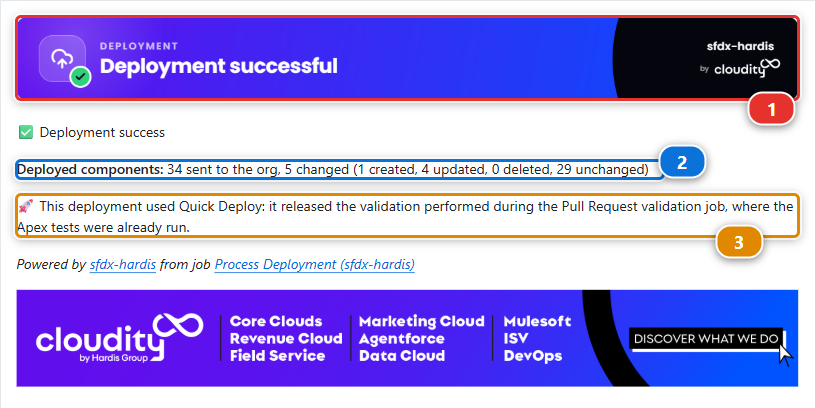
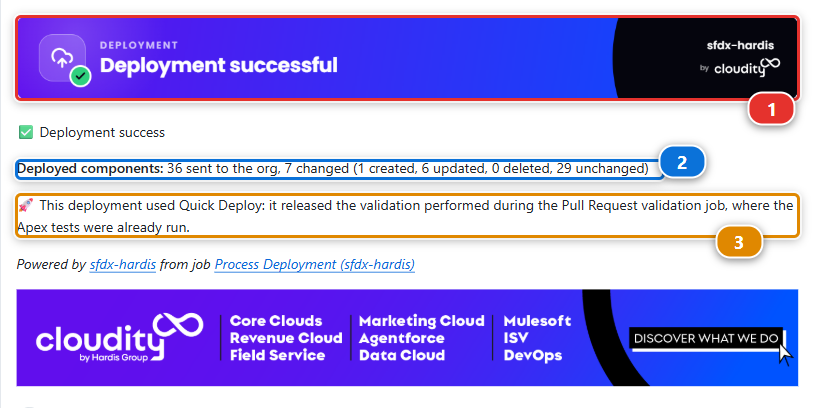
fix(training): what the 2026-09-29 walk on the beta found (#59)
* fix(lab-1.6): the comment pictures and counts of today's run, and the pipeline picture says it shows a later state

* fix(lab-2.1): What you should see names the field the backpromote brings

* fix(lab-2.4): the Data Workbench picture already shows the workspace the step creates

* fix(lab-2.7): the Merge Changes picture shows one of the two conflicting files

* fix(lab-2.7): no claim on the order of the files

* fix(lab-3.2): the fixed Pull Request moves two fields, not one

* fix(lab-3.5): the promotion notes count the configuration and promotion Pull Requests

* fix(badges): a badge claim republishes the reset branches too

* chore(training): changelog of the 2026-09-29 walk, and the French stamps of the labs it edited

* fix(training): what the review of the 2026-09-29 branch found

Lab 3.5 counts the three Pull Requests that carry no story and says a reset
gives far fewer, Lab 3.2 keeps the read only in its summary, and claim.yml
lists its sixth rule and republishes the reset branches only after a push.

* chore(training): restamp the two French labs of the review

diff --git a/labs/fr/level-1-contributor-basics/1-6-pull-request-deployment-check-and-merge.md b/labs/fr/level-1-contributor-basics/1-6-pull-request-deployment-check-and-merge.md
@@ -5,7 +5,7 @@ description: "Ouvrez une Pull Request GitHub, lisez le contrôle de déploiement
 level: 1
 lab: 6
 lang: fr
-source_rev: "9c0626c6cc38da209d2afd619561a0e94eaff865"
+source_rev: "71114c5446375824368bab616dc0f1d1ee701d51"
 screenshots:
   - annotated/web/github-pr-checks
   - annotated/web/github-pr-comment
@@ -145,8 +145,8 @@ Quand le contrôle de déploiement se termine, sfdx-hardis écrit un commentaire
 
 1. **La bannière** **(1)** dit si le déploiement simulé a réussi
 2. **Ce qui changerait** **(2)**. Pas une liste de vos fichiers : sfdx-hardis envoie le package
-   entier, `manifest/package.xml`, et Salesforce répond quelle part en diffère : `34 sent to the org,
-   5 would change (1 created, 4 updated, 0 deleted, 29 unchanged)`. Le composant créé est votre
+   entier, `manifest/package.xml`, et Salesforce répond quelle part en diffère : `36 sent to the org,
+   7 would change (1 created, 6 updated, 0 deleted, 29 unchanged)`. Le composant créé est votre
    champ, et les composants mis à jour incluent la présentation de page et les deux permission sets
    que vous avez modifiés
 3. **La couverture Apex** **(3)**, face à l'objectif que fixe ce projet
@@ -239,6 +239,10 @@ répond à "est-ce que mon travail est dans l'org" sans quitter l'éditeur.
 
 ![Le panneau DevOps Pipeline, avec le statut du déploiement sur la flèche vers l'org](../../_assets/annotated/vscode/devops-pipeline--deployment-status.png)
 
+La capture a été prise plus loin dans le cours, avec les branches des collègues à gauche
+d'`integration`. La vôtre ne montre que `integration` et `uat` : c'est la pastille **(1)** sur la
+flèche vers l'org qu'il faut regarder.
+
 La pastille est aussi un lien : cliquez dessus et GitHub s'ouvre sur le log de cette exécution,
 **Process Deployment (sfdx-hardis)**, qui prend environ trois minutes. Vous n'avez pas besoin de le
 lire aujourd'hui. Il est là pour le jour où quelque chose échoue, et le [Lab 3.3](../level-3-release-manager/3-3-deploy-to-integration-and-read-the-log.md) est le lab qui
@@ -250,8 +254,8 @@ de merger :
 ![Le commentaire que sfdx-hardis écrit après le déploiement de merge](../../_assets/annotated/web/github-pr-deployed.png)
 
 1. **Deployment successful** **(1)**, et cette fois l'org a vraiment changé
-2. **Ce qui a changé** **(2)**, sous la même forme que ce que le contrôle annonçait : `5 changed`
-   là où le contrôle disait `5 would change`
+2. **Ce qui a changé** **(2)**, sous la même forme que ce que le contrôle annonçait : `7 changed`
+   là où le contrôle disait `7 would change`
 3. **Quick Deploy** **(3)**. Le job de merge n'est pas parti de rien. Il a libéré la validation que
    le contrôle de Pull Request avait déjà faite, c'est pourquoi il n'a pas relancé les tests Apex une
    deuxième fois et pourquoi il a pris deux minutes plutôt que cinq

diff --git a/labs/en/level-1-contributor-basics/1-6-pull-request-deployment-check-and-merge.md b/labs/en/level-1-contributor-basics/1-6-pull-request-deployment-check-and-merge.md
@@ -139,8 +139,8 @@ the most useful thing on the page.
 
 1. **The banner** **(1)** says whether the simulated deployment succeeded
 2. **What would change** **(2)**. Not a list of your files: sfdx-hardis sends the whole package,
-   `manifest/package.xml`, and Salesforce answers how much of it differs: `34 sent to the org, 5
-   would change (1 created, 4 updated, 0 deleted, 29 unchanged)`. The one created is your field, and the
+   `manifest/package.xml`, and Salesforce answers how much of it differs: `36 sent to the org, 7
+   would change (1 created, 6 updated, 0 deleted, 29 unchanged)`. The one created is your field, and the
    updated ones include the layout and the two permission sets you changed
 3. **Apex coverage** **(3)**, against the target this project sets
 4. **Tickets** **(4)**, the stories it recognised in your branch name and commit messages, each
@@ -226,6 +226,10 @@ org yet" without leaving the editor.
 
 ![The DevOps Pipeline panel, with the deployment status on the arrow to the org](../../_assets/annotated/vscode/devops-pipeline--deployment-status.png)
 
+The picture was taken later in the course, with teammates' branches on the left of `integration`.
+Yours shows only `integration` and `uat`: the pill **(1)** on the arrow to the org is the part to look
+at.
+
 The pill is also a link: click it and GitHub opens on the log of that run, **Process Deployment
 (sfdx-hardis)**, which takes about three minutes. You do not need to read it today. It is there for
 the day something fails, and [Lab 3.3](../level-3-release-manager/3-3-deploy-to-integration-and-read-the-log.md) is the lab that reads one line by line.
@@ -235,8 +239,8 @@ When the deployment finishes, it writes a second comment on the Pull Request you
 ![The comment sfdx-hardis writes after the merge deployment](../../_assets/annotated/web/github-pr-deployed.png)
 
 1. **Deployment successful** **(1)**, and this time the org really changed
-2. **What changed** **(2)**, in the same shape as the check said it would: `5 changed` where the
-   check said `5 would change`
+2. **What changed** **(2)**, in the same shape as the check said it would: `7 changed` where the
+   check said `7 would change`
 3. **Quick Deploy** **(3)**. The merge job did not start from nothing. It released the validation
    the Pull Request check had already done, which is why it did not run the Apex tests a second
    time and why it took two minutes rather than five

diff --git a/labs/fr/level-3-release-manager/3-5-promote-to-uat-and-write-release-notes.md b/labs/fr/level-3-release-manager/3-5-promote-to-uat-and-write-release-notes.md
@@ -5,7 +5,7 @@ description: "Protégez ce que l'UAT garde pour elle avec package-no-overwrite, 
 level: 3
 lab: 5
 lang: fr
-source_rev: "dd66f0b0d98198e8a0e40fd57b516f4abcce664b"
+source_rev: "61522b52030bb3ccfc5b71dda053a192d3091436"
 screenshots:
   - annotated/vscode/devops-pipeline-level3--create-promotion
   - annotated/vscode/pipeline-branch-modal-level3--what-it-carries
@@ -279,11 +279,16 @@ Sur cette promotion, les notes générées s'ouvrent ainsi :
 
 | Metric           | Value |
 |------------------|-------|
-| Pull Requests    | 19    |
+| Pull Requests    | 20    |
 | Tickets          | 15    |
 | Contributors     | 1     |
-| Added / Modified | 33    |
+| Added / Modified | 34    |
 ```
+
+Le décompte inclut les Pull Requests qui ne portent aucune story : celles de configuration du [Lab 3.1](3-1-configure-the-pipeline-up-to-production.md)
+et de l'étape 2, et la promotion elle-même. Le vôtre dépend de votre parcours : près de 20 après les
+Niveaux 1 et 2, beaucoup moins après **Reset this level**, qui démarre le Niveau 3 sans leurs Pull
+Requests.
 
 Viennent ensuite un tableau des tickets, un des Pull Requests avec leurs auteurs et dates de merge,
 les métadonnées modifiées par type, et les deployment actions avec leur statut dans `uat` : l'étape

diff --git a/labs/fr/level-3-release-manager/3-2-review-a-contributor-pull-request.md b/labs/fr/level-3-release-manager/3-2-review-a-contributor-pull-request.md
@@ -5,7 +5,7 @@ description: "Relisez la Pull Request Salesforce d'une collègue en release mana
 level: 3
 lab: 2
 lang: fr
-source_rev: "a34ea6fe2995834d2ab32fd72793082b541c84c8"
+source_rev: "61522b52030bb3ccfc5b71dda053a192d3091436"
 screenshots:
   - annotated/web/github-pr-files
   - annotated/vscode/welcome-custom-menu-3
@@ -158,8 +158,8 @@ Capacity back, beside the cap**.
 Cela ajoute un commit à sa branche, la même Pull Request se met donc à jour, et ses contrôles
 retournent. Rouvrez **Files changed** : GitHub propose de n'afficher que les modifications depuis
 votre revue, et il y en a une, `Total_Capacity_kW__c` ajouté dans la deuxième colonne, en lecture
-seule, sous le plafond. Le diff entier de la Pull Request déplace maintenant un champ et n'en retire
-aucun.
+seule, sous le plafond. Le diff entier de la Pull Request déplace maintenant deux champs dans la deuxième colonne, le
+plafond et la capacité installée, désormais en lecture seule, et n'en retire aucun.
 
 Quand les contrôles sont verts, mergez avec **Squash and merge**, comme pour toute Pull Request de
 feature ([Lab 1.6](../level-1-contributor-basics/1-6-pull-request-deployment-check-and-merge.md)) : les deux commits deviennent une ligne dans l'historique d'`integration`, titrée

diff --git a/labs/fr/level-2-contributor-advanced/2-1-backpromote-your-teammates-work.md b/labs/fr/level-2-contributor-advanced/2-1-backpromote-your-teammates-work.md
@@ -5,7 +5,7 @@ description: "Votre org de développement est en retard sur integration. Faites-
 level: 2
 lab: 1
 lang: fr
-source_rev: "8bc390afe8fb943bdfa3eadd477b54ef38001e7f"
+source_rev: "4469908307f988b14dfd81ce3636e0cfe591c884"
 screenshots:
   - annotated/vscode/sidebar-commands-custom-menu-2--training-menu
   - annotated/web/github-pr-files
@@ -280,9 +280,10 @@ Documentation de la commande : [hardis:work:backpromote](https://sfdx-hardis.clo
 
 ## Ce que vous devez voir
 
-Ouvrez `helios-dev` et vérifiez que la métadonnée des trois stories mergées y est. En particulier
-`Panels_Required__c` et `Crew_Notes__c` du Niveau 1, si vous avez fait le Niveau 1 dans une autre
-org.
+Ouvrez `helios-dev` et vérifiez que la métadonnée des trois stories mergées y est. Le champ
+**Signed Off By** de Romain est celui à chercher : ouvrez une installation, il est en bas de la
+colonne des champs. `Panels_Required__c` et `Crew_Notes__c` du Niveau 1 y étaient déjà, sauf si
+vous avez fait le Niveau 1 dans une autre org.
 
 ## En cas de problème
 

diff --git a/CHANGELOG.md b/CHANGELOG.md
@@ -3,6 +3,14 @@
 What changed in the course, for learners and trainers. The course has no versions: each section is
 a day, newest first, and a change goes under the date of the day it is made.
 
+## 2026-09-29
+
+- Lab 1.6 shows the counts a learner gets today, 36 sent and 7 changed, in its text and its two comment pictures.
+- Pictures that show a later state of the course now say so: the pipeline of Lab 1.6, the Data Workbench of Lab 2.4 and the Merge Changes list of Lab 2.7.
+- Lab 2.1 names the field the backpromote actually brings, Romain's Signed Off By.
+- Lab 3.2 says the fixed Pull Request moves two fields to the second column, and Lab 3.5 explains why its notes count 20 Pull Requests.
+- A badge claim now republishes the reset branches, so a retrofit in Labs 3.7 and 3.10 no longer brings badge files along.
+
 ## 2026-09-27
 
 - Helios starts with the package-no-overwrite.xml every sfdx-hardis project gets, and Lab 3.5 adds the warehouse remote site setting to it.

diff --git a/labs/fr/level-2-contributor-advanced/2-7-resolve-a-git-merge-conflict.md b/labs/fr/level-2-contributor-advanced/2-7-resolve-a-git-merge-conflict.md
@@ -5,7 +5,7 @@ description: "Une collègue a mergé en premier sur le même flow et le même pe
 level: 2
 lab: 7
 lang: fr
-source_rev: "ecec979441416a4d9c6a3f833bbb555facb88aa6"
+source_rev: "c43ebd2258a2c6950db136e2317822d8dae07296"
 screenshots:
   - annotated/salesforce/flow-builder-assign-crew
   - annotated/salesforce/flow-builder-assign-crew-full
@@ -178,6 +178,9 @@ Deux fichiers reviennent marqués en conflit. Ils apparaissent dans le panneau s
 **(1)**, chacun avec un **!** **(2)**, et la barre d'état dit qu'un merge est en cours.
 
 ![Le panneau Source Control avec les fichiers en conflit sous Merge Changes](../../_assets/annotated/vscode/git-merge-conflicts--merge-changes.png)
+
+La capture ne montre que le permission set. La vôtre montre aussi le flow `Installation_Assign_Crew`,
+avec son propre **!** : deux fichiers, comme GitHub l'a dit.
 
 <details markdown="1"><summary>Sous le capot : ce qu'a lancé Merge Branch</summary>
 

diff --git a/labs/fr/level-2-contributor-advanced/2-4-ship-reference-data-and-a-batch-with-deployment-actions.md b/labs/fr/level-2-contributor-advanced/2-4-ship-reference-data-and-a-batch-with-deployment-actions.md
@@ -5,7 +5,7 @@ description: "Un déploiement vert n'est pas une fonctionnalité qui marche. Liv
 level: 2
 lab: 4
 lang: fr
-source_rev: "ecec979441416a4d9c6a3f833bbb555facb88aa6"
+source_rev: "cb5f905c738e49eeef5ea49e5734aa0aee4d3818"
 screenshots:
   - annotated/vscode/sidebar-commands-custom-menu-2--lab-records
   - annotated/salesforce/crew-capacity-records
@@ -147,6 +147,9 @@ comment. Il est exécuté par [SFDMU](https://github.com/forcedotcom/SFDX-Data-M
 données qu'utilise sfdx-hardis, et rien dedans n'est propre à une org.
 
 ![Le Data Import/Export Workbench, où les workspaces SFDMU se créent et se lancent](../../_assets/annotated/vscode/data-workbench.png)
+
+La capture a été prise à la fin de cette étape : elle montre déjà `HeliosCrewRefData` sous
+`HeliosBaseline`. La vôtre ne montre que `HeliosBaseline` tant que vous ne l'avez pas créé.
 
 Créez un nouveau workspace :
 

diff --git a/labs/en/level-3-release-manager/3-5-promote-to-uat-and-write-release-notes.md b/labs/en/level-3-release-manager/3-5-promote-to-uat-and-write-release-notes.md
@@ -266,11 +266,16 @@ On this promotion, the generated notes open like this:
 
 | Metric           | Value |
 |------------------|-------|
-| Pull Requests    | 19    |
+| Pull Requests    | 20    |
 | Tickets          | 15    |
 | Contributors     | 1     |
-| Added / Modified | 33    |
+| Added / Modified | 34    |
 ```
+
+The count includes the Pull Requests that carry no story: the configuration ones of [Lab 3.1](3-1-configure-the-pipeline-up-to-production.md) and
+of step 2, and the promotion itself. Yours depends on how you got here: close to 20 after walking
+Levels 1 and 2, far fewer after **Reset this level**, which starts Level 3 without their Pull
+Requests.
 
 Then come a table of the tickets, one of the Pull Requests with their authors and merge dates, the
 metadata changed by type, and the deployment actions with their status in `uat`: the manual

diff --git a/labs/en/level-3-release-manager/3-2-review-a-contributor-pull-request.md b/labs/en/level-3-release-manager/3-2-review-a-contributor-pull-request.md
@@ -150,7 +150,8 @@ back, beside the cap**.
 It adds one commit to her branch, so the same Pull Request updates, and its checks run again. Open
 **Files changed** again: GitHub offers to show only the changes since your review, and there is one,
 `Total_Capacity_kW__c` added in the second column, read only, under the cap. The whole diff of the
-Pull Request now moves one field and removes nothing.
+Pull Request now moves two fields to the second column, the cap and the installed capacity, now read only,
+and removes nothing.
 
 When the checks are green, merge with **Squash and merge**, as for every feature Pull Request (Lab
 1.6): the two commits become one line in the history of `integration`, titled like the Pull Request.

diff --git a/labs/en/level-2-contributor-advanced/2-1-backpromote-your-teammates-work.md b/labs/en/level-2-contributor-advanced/2-1-backpromote-your-teammates-work.md
@@ -267,8 +267,10 @@ Command documentation: [hardis:work:backpromote](https://sfdx-hardis.cloudity.co
 
 ## What you should see
 
-Open `helios-dev` and check that the metadata from the three merged stories is there. In particular
-`Panels_Required__c` and `Crew_Notes__c` from Level 1, if you did Level 1 in a different org.
+Open `helios-dev` and check that the metadata from the three merged stories is there. Romain's
+**Signed Off By** field is the one to look for: open an installation, it is at the bottom of the
+field column. `Panels_Required__c` and `Crew_Notes__c` from Level 1 were already there, unless you
+did Level 1 in a different org.
 
 ## If it goes wrong
 

diff --git a/labs/en/level-2-contributor-advanced/2-7-resolve-a-git-merge-conflict.md b/labs/en/level-2-contributor-advanced/2-7-resolve-a-git-merge-conflict.md
@@ -171,6 +171,9 @@ each with a **!** **(2)**, and the status bar says a merge is in progress.
 
 ![The Source Control panel with the conflicting files under Merge Changes](../../_assets/annotated/vscode/git-merge-conflicts--merge-changes.png)
 
+The picture lists only the permission set. Yours also lists the flow `Installation_Assign_Crew`,
+with its own **!**: two files, as GitHub said.
+
 <details markdown="1"><summary>Under the hood: what Merge Branch ran</summary>
 
     git fetch origin
